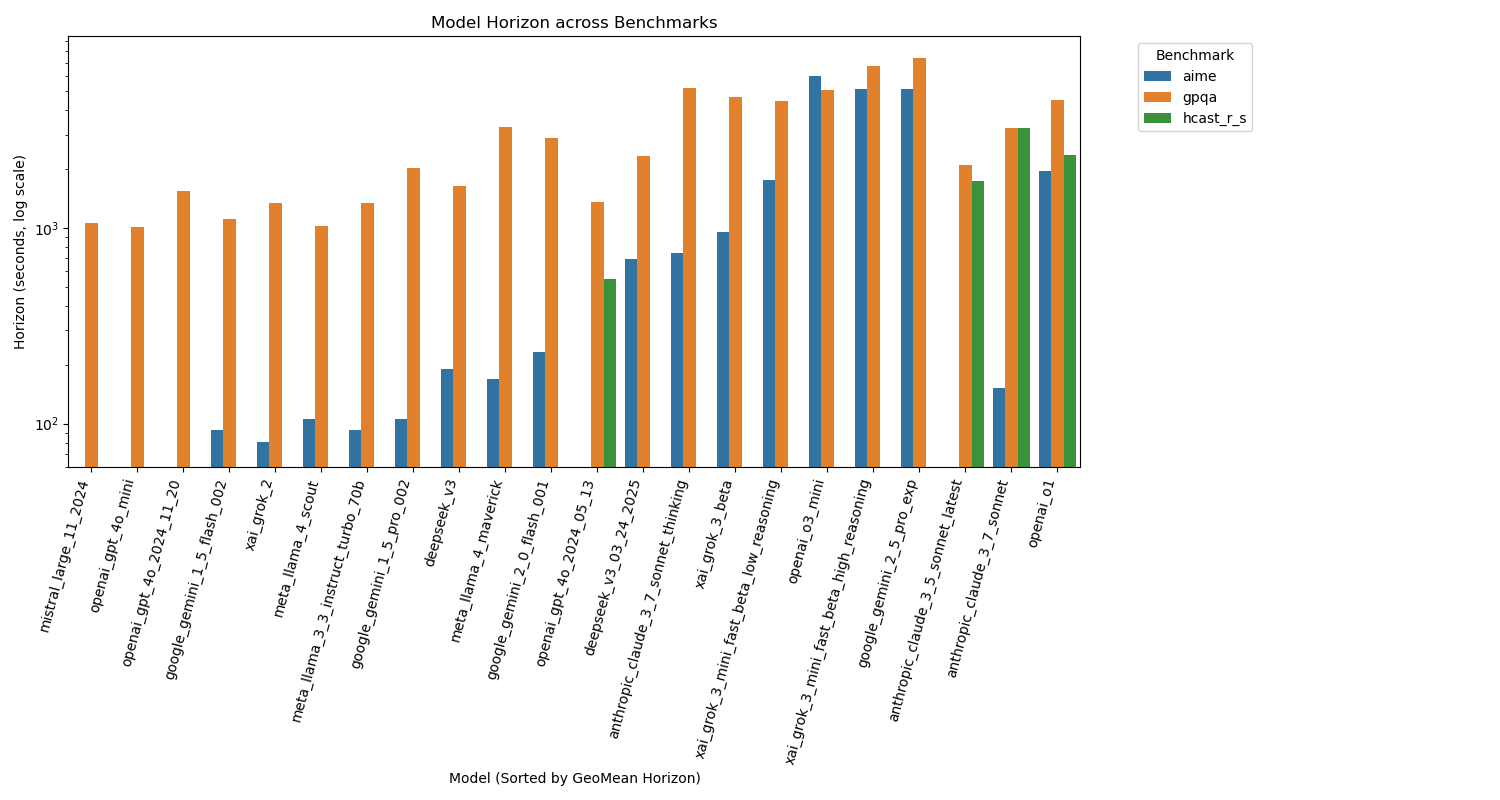
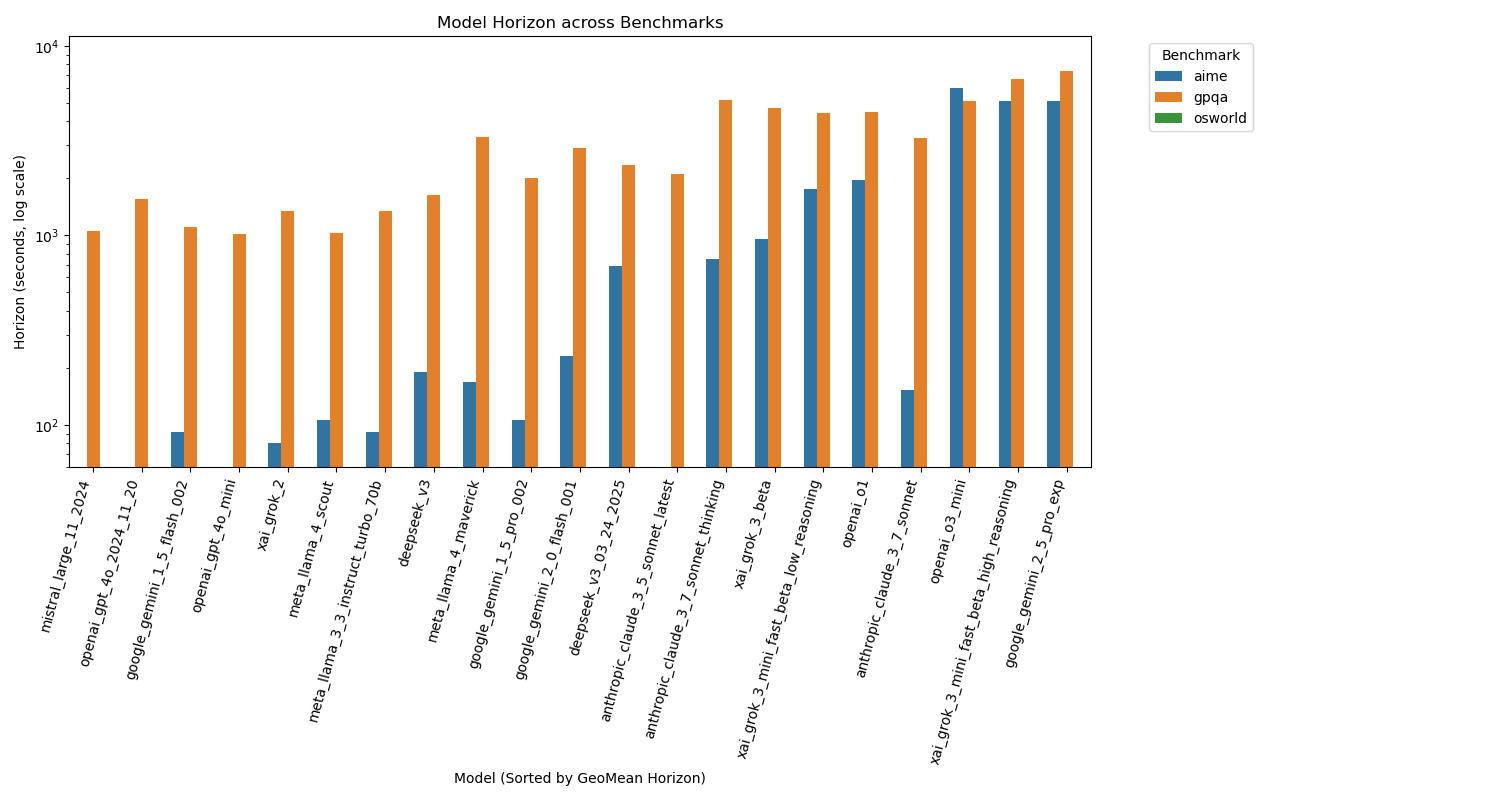
plots update

Changed region(s): [[0.0307, 0.0625, 0.828, 0.9375], [0.276, 0.0, 0.4907, 0.0312], [0.3067, 0.9688, 0.46, 1.0]]

diff --git a/wrangle.py b/wrangle.py
@@ -5,36 +5,40 @@ from scipy.stats import gmean
 import numpy as np
 
 DATA_DIR = 'data'
+HORIZONS_DIR = os.path.join(DATA_DIR, 'horizons') # New constant for horizons dir
 MIN_HORIZON_THRESHOLD_SECONDS = 10 * 60  # 10 minutes
 
 def load_data(data_dir):
-    """Loads horizon data from all benchmark subdirectories."""
+    """Loads horizon data from CSV files in the horizons subdirectory."""
     all_data = []
-    benchmark_dirs = [os.path.join(data_dir, d) for d in os.listdir(data_dir)
-                      if os.path.isdir(os.path.join(data_dir, d))]
+    horizons_dir = os.path.join(data_dir, 'horizons') # Use the specific horizons directory
+    csv_files = glob.glob(os.path.join(horizons_dir, '*.csv')) # Find all CSVs in horizons dir
 
-    for bench_dir in benchmark_dirs:
-        benchmark_name = os.path.basename(bench_dir)
-        csv_path = os.path.join(bench_dir, 'horizons.csv')
-        if os.path.exists(csv_path):
-            try:
-                df = pd.read_csv(csv_path)
-                # Assuming columns are 'model', 'horizon' (in minutes), 'score'
-                if 'model' in df.columns and 'horizon' in df.columns:
-                    # Fill missing horizons with 0 before converting
-                    df['horizon'] = df['horizon'].fillna(0)
-                    # Convert horizon from minutes to seconds
-                    df['horizon'] = df['horizon'] * 60
-                    df['benchmark'] = benchmark_name
-                    all_data.append(df[['model', 'benchmark', 'horizon']])
-                else:
-                    print(f"Warning: Skipping {csv_path}. Missing 'model' or 'horizon' column.")
-            except Exception as e:
-                print(f"Warning: Could not read {csv_path}. Error: {e}")
-        else:
-            print(f"Warning: No horizons.csv found in {bench_dir}")
+    if not csv_files:
+        print(f"Warning: No CSV files found in {horizons_dir}")
+        return pd.DataFrame(columns=['model', 'benchmark', 'horizon'])
+
+    for csv_path in csv_files:
+        benchmark_name = os.path.basename(csv_path).replace('.csv', '') # Extract benchmark from filename
+        try:
+            df = pd.read_csv(csv_path)
+            # Assuming columns are 'model', 'horizon' (in minutes) - score no longer needed here?
+            if 'model' in df.columns and 'horizon' in df.columns:
+                # Fill missing horizons with 0 before converting
+                df['horizon'] = df['horizon'].fillna(0)
+                # Convert horizon from minutes to seconds
+                df['horizon'] = df['horizon'] * 60
+                df['benchmark'] = benchmark_name
+                # Select only necessary columns
+                all_data.append(df[['model', 'benchmark', 'horizon']])
+            else:
+                print(f"Warning: Skipping {csv_path}. Missing 'model' or 'horizon' column.")
+        except Exception as e:
+            print(f"Warning: Could not read {csv_path}. Error: {e}")
+
 
     if not all_data:
+        print("Warning: No data loaded after processing CSV files.")
         return pd.DataFrame(columns=['model', 'benchmark', 'horizon'])
 
     return pd.concat(all_data, ignore_index=True)
